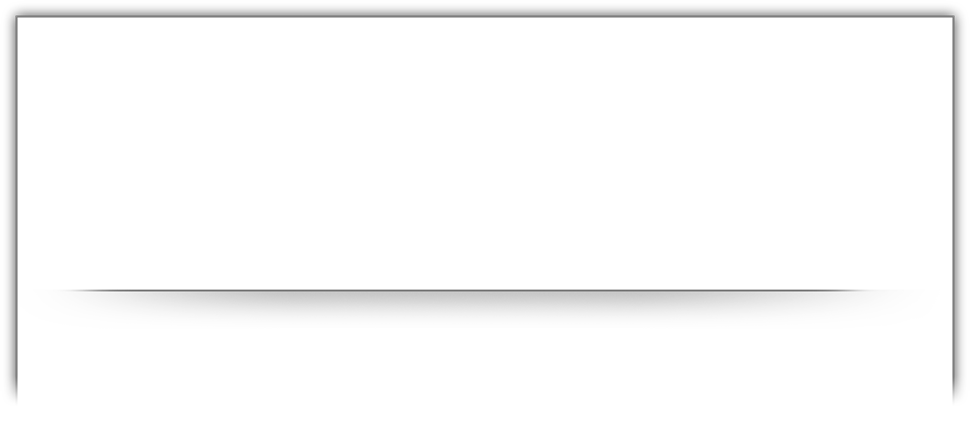
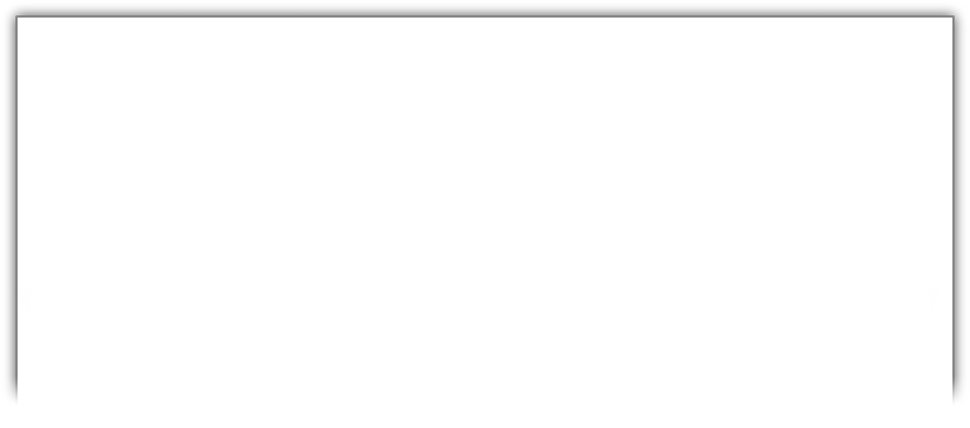
fixing the front page

Changed region(s): [[0.0928, 0.6682, 0.8969, 0.729]]

diff --git a/app/assets/stylesheets/style.css.sass b/app/assets/stylesheets/style.css.sass
@@ -5,8 +5,12 @@ body
   height: 100%
   margin: 0 auto
   padding: 0
-  background: url(/assets/background.jpg) no-repeat
   background-size: cover
+
+.inner_page
+  background: url('/assets/background_top.jpg') no-repeat
+.front_page
+  background: url('/assets/background.jpg') no-repeat
 
 .logo_div
   float: left
@@ -322,16 +326,9 @@ body
   border-left: 1px solid #999999
 
 .des_content
-  width: 970px
-  float: left
   background: url(/assets/contact_content.png) no-repeat
-  height: 428px
-  margin-left: -15px
-  margin-top: -10px
-  margin-bottom: 500px
-
-.bos_content
-  margin: 25px
+  padding: 25px
+  background-color: #FFF
 
 .des_content_txt
   margin: 40px 0 0 40px
@@ -351,6 +348,8 @@ body
 
 .des_content img
   margin-top: 18px
+.bos_content
+  background-color: white
 
 .b20
   margin-bottom: 20px
